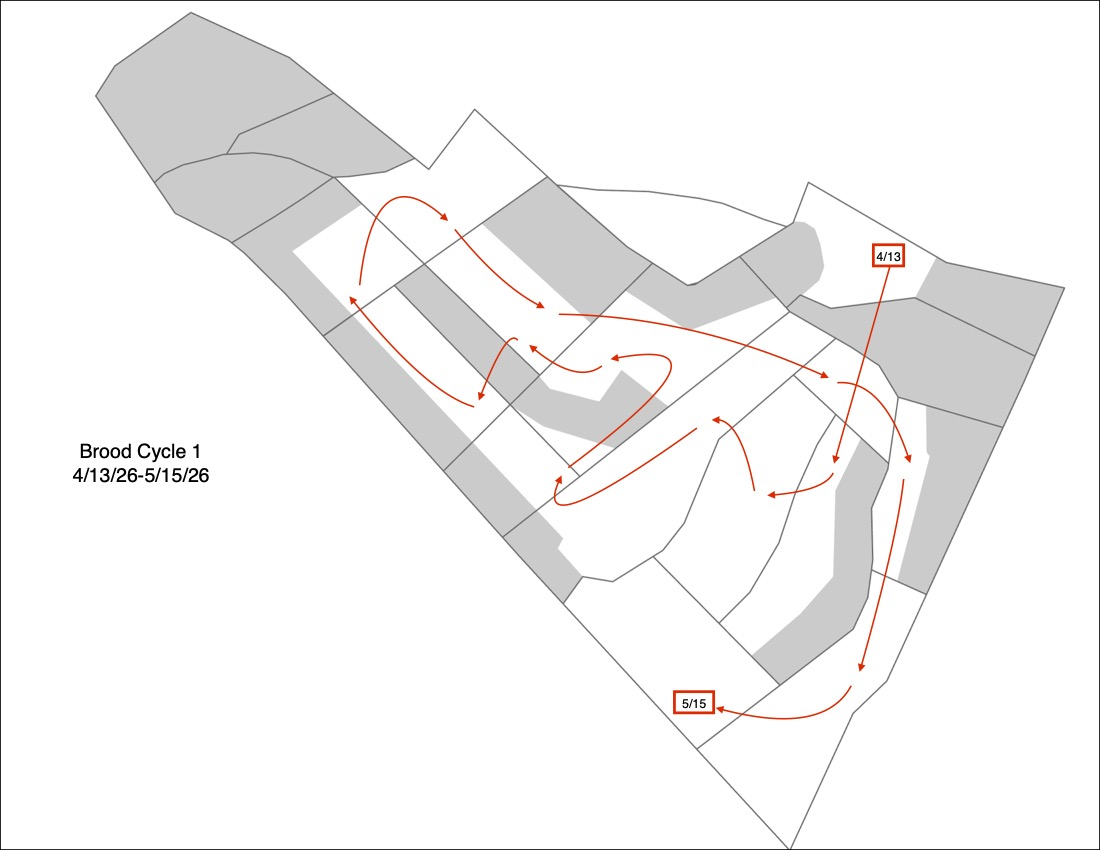
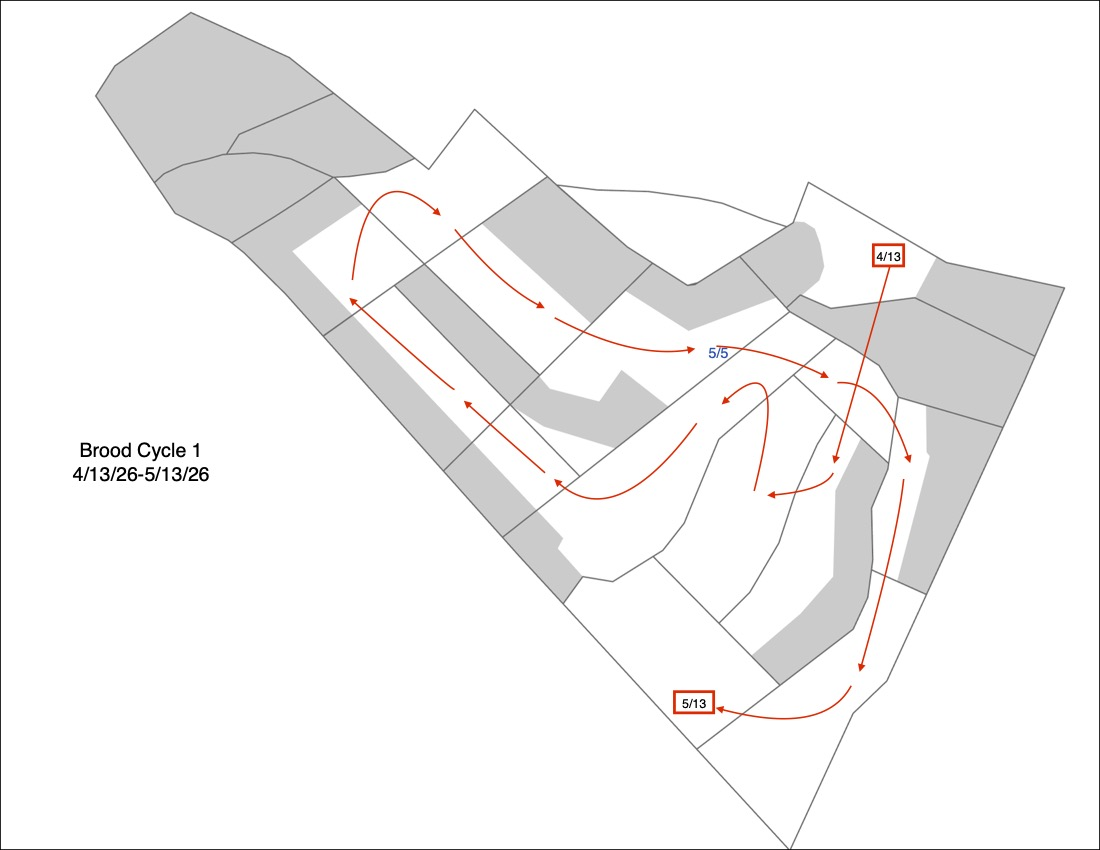
updates

diff --git a/docs/posts/2026grazeplan/index.html b/docs/posts/2026grazeplan/index.html
@@ -150,7 +150,7 @@ ul.task-list li input[type="checkbox"] {
       <div>
       <div class="quarto-title-meta-heading">Modified</div>
       <div class="quarto-title-meta-contents">
-        <p class="date-modified">March 6, 2026</p>
+        <p class="date-modified">March 12, 2026</p>
       </div>
     </div>
       
@@ -189,7 +189,7 @@ ul.task-list li input[type="checkbox"] {
 <p><a href="bc1.jpg" class="lightbox" data-gallery="25-flow" title="Brood Cycle 1"><img src="bc1.jpg" class="img-fluid" alt="Brood Cycle 1"></a> <a href="bc2.jpg" class="lightbox" data-gallery="25-flow" title="Brood Cycle 2"><img src="bc2.jpg" class="hidden-gallery-img img-fluid" alt="Brood Cycle 2"></a> <a href="bc3.jpg" class="lightbox" data-gallery="25-flow" title="Brood Cycle 3"><img src="bc3.jpg" class="hidden-gallery-img img-fluid" alt="Brood Cycle 3"></a> <a href="bc4.jpg" class="lightbox" data-gallery="25-flow" title="Brood Cycle 4"><img src="bc4.jpg" class="hidden-gallery-img img-fluid" alt="Brood Cycle 4"></a> <a href="fc1.jpg" class="lightbox" data-gallery="25-flow" title="Feeder Cycle 1"><img src="fc1.jpg" class="hidden-gallery-img img-fluid" alt="Feeder Cycle 1"></a> <a href="fc2.jpg" class="lightbox" data-gallery="25-flow" title="Feeder Cycle 2"><img src="fc2.jpg" class="hidden-gallery-img img-fluid" alt="Feeder Cycle 2"></a> <a href="fc3.jpg" class="lightbox" data-gallery="25-flow" title="Feeder Cycle 3"><img src="fc3.jpg" class="hidden-gallery-img img-fluid" alt="Feeder Cycle 3"></a> <a href="fc4.jpg" class="lightbox" data-gallery="25-flow" title="Feeder Cycle 4"><img src="fc4.jpg" class="hidden-gallery-img img-fluid" alt="Feeder Cycle 4"></a></p>
 <ul>
 <li><p>112 acres were also hayed at least once producing 307 round bales (115 tons) of hay, bringing the total land base per head to 4.3.</p></li>
-<li><p>Placeholder for seeding and amendments.</p></li>
+<li><p>Soil amendments and seeds were applied to several fields to improve forage quality and production: 17 acres across five fielld were frost seeded with legumes to increase nitrogen fixation. 40-50 acres acrosss five different fields were fertilized with composted chicken manure. A 22 acre field was drill seeded with a cool season pasture mix. Seven fields were limed to increase pH, making soil nutrients more available.</p></li>
 <li><p>As seen in the following map, about 140 acres were managed as grassland bird nesting habitat. This means that they were not grazed, hayed or mown from mid-May through mid-July. In addition to their value as an indicator of grassland habitat quality, grassland birds are in steep decline both nationally and regionally as habitat loss, invasive species, climate change, and agricultural intensification threaten populations. Both in the context of Trustees and Massachusetts grasslands, Appleton ranks highly in terms of grassland bird habitat.</p>
 <p><a href="bird25.jpg" class="lightbox" data-gallery="quarto-lightbox-gallery-10"><img src="bird25.jpg" class="img-fluid"></a></p></li>
 <li><p>For more information about the status of grassland birds at Trustees properties, including at Appleton, see <a href="https://storymaps.arcgis.com/stories/50222979c2454e58b5a8db162a33f652">this report</a>.</p></li>
@@ -197,15 +197,20 @@ ul.task-list li input[type="checkbox"] {
 <li><p>In collaboration with our stewardship team, we impacted over 100 acres of multiflora rose and other woodies in the Great Pasture. Our treatment methods included mechanical clearing with diverse equipment (brush hog, DR mower, brush cutter), manual clipping, spot spraying, and mob grazing after spraying roses with molasses to encourage browsing.</p></li>
 </ul>
 <p></p><div class="quarto-video"><video id="video_shortcode_videojs_video1" class="video-js vjs-default-skin vjs-fluid" controls="" preload="auto" data-setup="{}" title=""><source src="DR.MOV"></video></div> Clearing roses with the DR Mower.<p></p>
-<p><a href="cows.jpg" class="lightbox" data-gallery="roses" title="Grazing among the roses"><img src="cows.jpg" class="img-fluid" alt="Grazing among the roses"></a> <a href="sprayed_roses.jpeg" class="lightbox" data-gallery="roses" title="Sprayed roses"><img src="sprayed_roses.jpeg" class="hidden-gallery-img img-fluid" alt="Sprayed roses"></a> <a href="regrowth_roses.jpeg" class="lightbox" data-gallery="roses" title="Regrowing roses"><img src="regrowth_roses.jpeg" class="hidden-gallery-img img-fluid" alt="Regrowing roses"></a></p>
+<p><a href="cows.jpg" class="lightbox" data-gallery="roses" title="Grazing among the roses"><img src="cows.jpg" class="img-fluid" alt="Grazing among the roses"></a> <a href="sprayed_roses.jpeg" class="lightbox" data-gallery="roses" title="Impact of herbicide treatment on multiflora rose"><img src="sprayed_roses.jpeg" class="hidden-gallery-img img-fluid" alt="Impact of herbicide treatment on multiflora rose"></a> <a href="regrowth_roses.jpeg" class="lightbox" data-gallery="roses" title="Rose regrowth following a rotary mow"><img src="regrowth_roses.jpeg" class="hidden-gallery-img img-fluid" alt="Rose regrowth following a rotary mow"></a></p>
 <p>Multiflora rose gallery.</p>
 </section>
 <section id="looking-forward-to-spring" class="level3">
 <h3 class="anchored" data-anchor-id="looking-forward-to-spring">Looking Forward to Spring</h3>
 <p>In just over a month, our cows will be back out on the landscape. This year, we’re expecting a slightly larger herd size of 94 total head. Of these, 24 will go to harvest, helping us reach a stable herd size over the coming years. Once again, we are hard at work creating a plan that balances and synergizes production and ecological goals. Our new grazing chart is well on the way:</p>
-<p>(GRZ Chart image: TBD)</p>
+<div class="quarto-figure quarto-figure-center">
+<figure class="figure">
+<p><a href="26gc.jpg" class="lightbox" data-gallery="quarto-lightbox-gallery-14" title="2026 Grazing chart in progress"><img src="26gc.jpg" class="img-fluid figure-img" alt="2026 Grazing chart in progress"></a></p>
+<figcaption>2026 Grazing chart in progress</figcaption>
+</figure>
+</div>
 <p>With the experience of 2025 to build on we have been able to move more efficiently through our planning process, as animal demands, available acreage, and general harvest patterns remain similar. This consistency can be seen in our new set of flow maps, now with the addition of grey ‘exclusion’ areas for ecological or other reasons:</p>
-<p><a href="26bc1.jpg" class="lightbox" data-gallery="26-flow" title="Brood Cycle 1"><img src="26bc1.jpg" class="img-fluid" alt="Brood Cycle 1"></a> <a href="26bc2.jpg" class="lightbox" data-gallery="26-flow" title="Brood Cycle 2"><img src="26bc2.jpg" class="hidden-gallery-img img-fluid" alt="Brood Cycle 2"></a> <a href="26fc1.jpg" class="lightbox" data-gallery="26-flow" title="Feeder Cycle 1"><img src="26fc1.jpg" class="hidden-gallery-img img-fluid" alt="Feeder Cycle 1"></a> <a href="26fc2.jpg" class="lightbox" data-gallery="26-flow" title="Feeder Cycle 2"><img src="26fc2.jpg" class="hidden-gallery-img img-fluid" alt="Feeder Cycle 2"></a> <a href="26fc3.jpg" class="lightbox" data-gallery="26-flow" title="Feeder Cycle 3"><img src="26fc3.jpg" class="hidden-gallery-img img-fluid" alt="Feeder Cycle 3"></a> <a href="26fc4.jpg" class="lightbox" data-gallery="26-flow" title="Feeder Cycle 4"><img src="26fc4.jpg" class="hidden-gallery-img img-fluid" alt="Feeder Cycle 4"></a></p>
+<p><a href="26bc1.jpg" class="lightbox" data-gallery="26-flow" title="Brood Cycle 1"><img src="26bc1.jpg" class="img-fluid" alt="Brood Cycle 1"></a> <a href="26bc2.jpg" class="lightbox" data-gallery="26-flow" title="Brood Cycle 2"><img src="26bc2.jpg" class="hidden-gallery-img img-fluid" alt="Brood Cycle 2"></a><a href="26bc3.jpg" class="lightbox" data-gallery="26-flow" title="Brood Cycle 3"><img src="26bc3.jpg" class="hidden-gallery-img img-fluid" alt="Brood Cycle 3"></a> <a href="26fc1.jpg" class="lightbox" data-gallery="26-flow" title="Feeder Cycle 1"><img src="26fc1.jpg" class="hidden-gallery-img img-fluid" alt="Feeder Cycle 1"></a> <a href="26fc2.jpg" class="lightbox" data-gallery="26-flow" title="Feeder Cycle 2"><img src="26fc2.jpg" class="hidden-gallery-img img-fluid" alt="Feeder Cycle 2"></a> <a href="26fc3.jpg" class="lightbox" data-gallery="26-flow" title="Feeder Cycle 3"><img src="26fc3.jpg" class="hidden-gallery-img img-fluid" alt="Feeder Cycle 3"></a> <a href="26fc4.jpg" class="lightbox" data-gallery="26-flow" title="Feeder Cycle 4"><img src="26fc4.jpg" class="hidden-gallery-img img-fluid" alt="Feeder Cycle 4"></a></p>
 <p>Like our flow maps, we have made tweaks in other areas, including rating fields based on their past forage production, digitizing our grazing chart on a shared app (Maia Grazing), updating monitoring and recordkeeping methods, planning for a broad suite of field amendments (lime, macronutrients, minerals, organic matter), and seeding to improve forage composition.</p>
 <p>We have also used data from recent years better understand how native species are distributed across our fields. In addition to rare species and grassland bird nesting areas, which have been refined through our grazing study and volunteer efforts described above, we are expanding our planning efforts to incorporate more diverse indicators of ecological value.</p>
 <p>Specifically, in 2026 we are focusing on butterflies as an indicator for grassland invertebrate habitat quality. As the foundation of animal food webs, insects play an incredibly important role in ecological communities. Like grassland birds, butterflies are charismatic, relatively easy to identify, and in decline. Their presence depends on long-term provision of mixed resources including host plants, nectar sources, and overwintering habitat.</p>
@@ -217,17 +222,17 @@ ul.task-list li input[type="checkbox"] {
 </ul>
 <div class="quarto-figure quarto-figure-center">
 <figure class="figure">
-<p><a href="ecoplan.jpg" class="lightbox" data-gallery="quarto-lightbox-gallery-20" title="Ecological restrictions applied in the 2026 grazing plan"><img src="ecoplan.jpg" class="img-fluid figure-img" alt="Ecological restrictions applied in the 2026 grazing plan"></a></p>
+<p><a href="ecoplan.jpg" class="lightbox" data-gallery="quarto-lightbox-gallery-22" title="Ecological restrictions applied in the 2026 grazing plan"><img src="ecoplan.jpg" class="img-fluid figure-img" alt="Ecological restrictions applied in the 2026 grazing plan"></a></p>
 <figcaption>Ecological restrictions applied in the 2026 grazing plan</figcaption>
 </figure>
 </div>
 <p>Finally, we are continuing to develop our approach to managing woody invasives in our pastures, with the Great Pasture as our primary concern and laboratory. Both grassland habitat value and forage production depend on effective control of shrubs like multiflora rose. While spot spraying with herbicides can be effective, and is a indispensible tool across Trustees grasslands, the presence of livestock at Appleton provides an opportunity and incentive to explore alternatives.</p>
-<p>In 2025 we learned a lot about the efficiency and effectiveness of different types of equipment for mechanical control across variable field conditions as we did our best to set back woodies across the vast majority of the 100+ acre pasture. We have identified constraints (crowded field edges and below fallen trees), and other challenging areas (too steep, rocky, or wooded) where support from our stewardship team and habitat specialists are needed. Elsewhere, we have laid out an ambitious plan to mow any woody vegetation within 1-2 days following each grazing cycle. Because these efforts are complicated by our other ecology goals, we put together a map to help coordinate this work.</p>
+<p>In 2025 we learned a lot about the efficiency and effectiveness of different types of equipment for mechanical control across variable field conditions as we did our best to set back woodies across the vast majority of the 100+ acre pasture. We have identified constraints (crowded field edges and below fallen trees), and other challenging areas (too steep, rocky, or wooded) where support from our stewardship team and habitat specialists are needed. Elsewhere, we have laid out an ambitious plan to mow any woody vegetation within 1-2 days following each grazing cycle. Because these efforts are constrained by our other priorities, the following map was developed to help coordinate this work.</p>
 <!-- Add script to the <head> of your page to load the embeddable map component -->
 <script type="module" src="https://js.arcgis.com/5.0/embeddable-components/"></script>
 <!-- Add custom element to <body> of your page -->
 <p><arcgis-embedded-map style="height:600px;width:700px;" item-id="f9b2923cbc7f4bd3af13fefdfd10000e" theme="light" legend-enabled="" time-zone-label-enabled="" center="-70.86088355601142,42.64663754107511" scale="9027.977411" portal-url="https://ttor.maps.arcgis.com"></arcgis-embedded-map></p>
-<p>We look forward to sharing the results of our 2026 grazing and grassland ecology management along with any evolution in our process next winter!</p>
+<p>Thank you to all who made our planning season a success: Zoe MacKay, Alyssa Hajek-Jones, Andrew Lawson, JJ Desmond, Robert Oppenheimer, Julie Richburg, Jane Hammer, and Saskia Campbell.</p>
 
 
 </section>
@@ -655,7 +660,7 @@ window.document.addEventListener("DOMContentLoaded", function (event) {
 </script>
 </div> <!-- /content -->
 <script>videojs(video_shortcode_videojs_video1);</script>
-<script>var lightboxQuarto = GLightbox({"closeEffect":"zoom","loop":false,"openEffect":"zoom","selector":".lightbox","descPosition":"bottom"});
+<script>var lightboxQuarto = GLightbox({"loop":false,"openEffect":"zoom","selector":".lightbox","closeEffect":"zoom","descPosition":"bottom"});
 (function() {
   let previousOnload = window.onload;
   window.onload = () => {

diff --git a/docs/index.html b/docs/index.html
@@ -206,7 +206,7 @@ window.Quarto = {
 
 <div class="quarto-listing quarto-listing-container-default" id="listing-listing">
 <div class="list quarto-listing-default">
-<div class="quarto-post image-right" data-index="0" data-categories="news,projects,data" data-listing-date-sort="1772773200000" data-listing-file-modified-sort="1772832166214" data-listing-date-modified-sort="1772832166000" data-listing-reading-time-sort="7" data-listing-word-count-sort="1400">
+<div class="quarto-post image-right" data-index="0" data-categories="news,projects,data" data-listing-date-sort="1772773200000" data-listing-file-modified-sort="1773324404560" data-listing-date-modified-sort="1773324404000" data-listing-reading-time-sort="8" data-listing-word-count-sort="1478">
 <div class="thumbnail">
 <p><a href="./posts/2026grazeplan/index.html" class="no-external"></a></p><a href="./posts/2026grazeplan/index.html" class="no-external">
 <p><img loading="lazy" src="./posts/2026grazeplan/cows.jpg" class="thumbnail-image"></p>
@@ -245,7 +245,7 @@ Alejandro Brambila
 </a>
 </div>
 </div>
-<div class="quarto-post image-right" data-index="1" data-categories="news,management" data-listing-date-sort="1771995600000" data-listing-file-modified-sort="1772832401465" data-listing-date-modified-sort="1772832401000" data-listing-reading-time-sort="12" data-listing-word-count-sort="2295">
+<div class="quarto-post image-right" data-index="1" data-categories="news,management" data-listing-date-sort="1771995600000" data-listing-file-modified-sort="1773854932092" data-listing-date-modified-sort="1773854932000" data-listing-reading-time-sort="12" data-listing-word-count-sort="2295">
 <div class="thumbnail">
 <p><a href="./posts/grazing_study/index.html" class="no-external"></a></p><a href="./posts/grazing_study/index.html" class="no-external">
 <p><img loading="lazy" src="./posts/grazing_study/bigbob.jpg" class="thumbnail-image"></p>

diff --git a/docs/posts/grazing_study/index.html b/docs/posts/grazing_study/index.html
@@ -143,7 +143,7 @@ ul.task-list li input[type="checkbox"] {
       <div>
       <div class="quarto-title-meta-heading">Modified</div>
       <div class="quarto-title-meta-contents">
-        <p class="date-modified">March 6, 2026</p>
+        <p class="date-modified">March 18, 2026</p>
       </div>
     </div>
       
